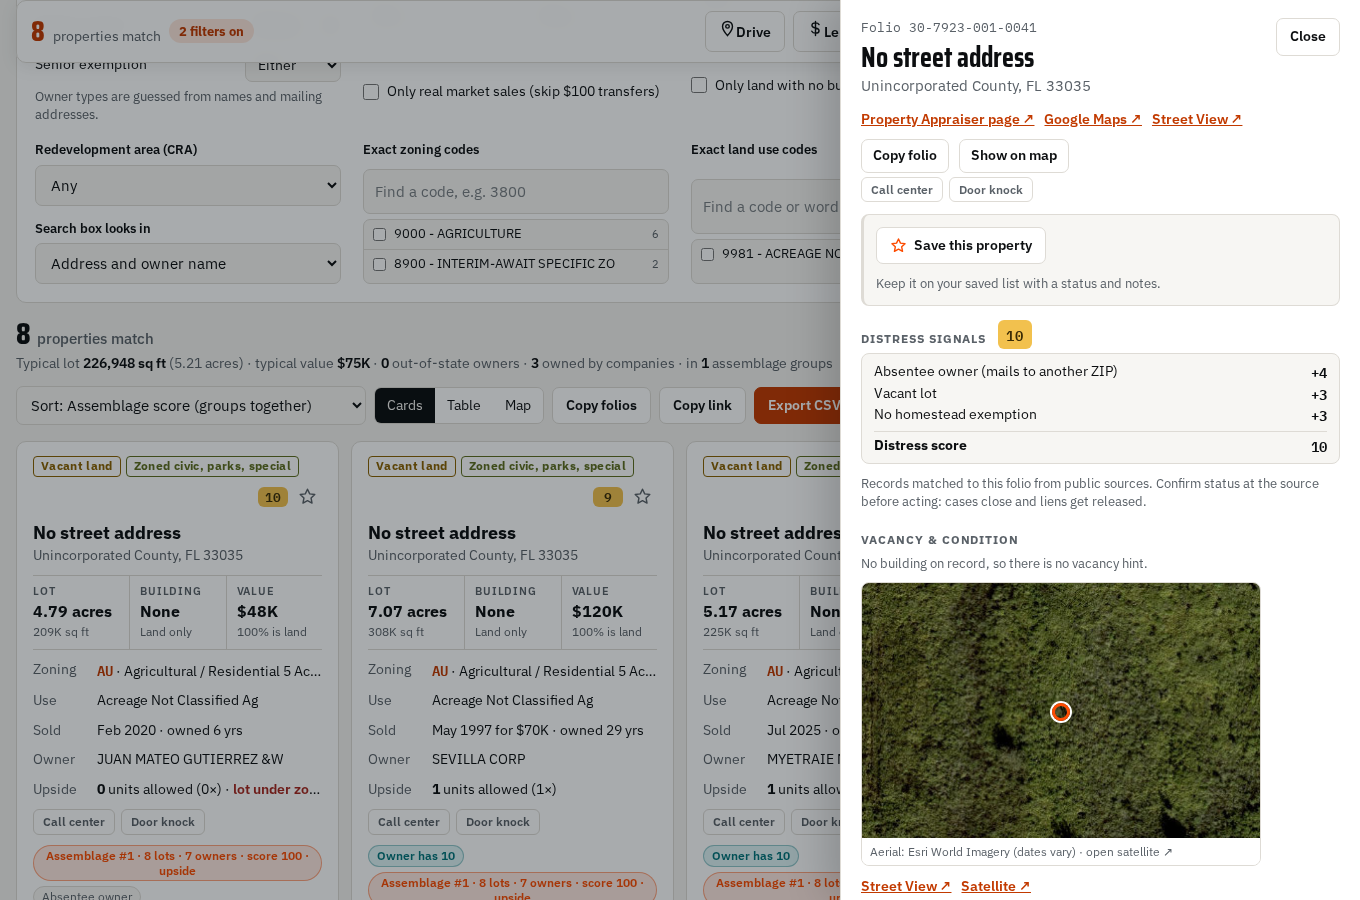
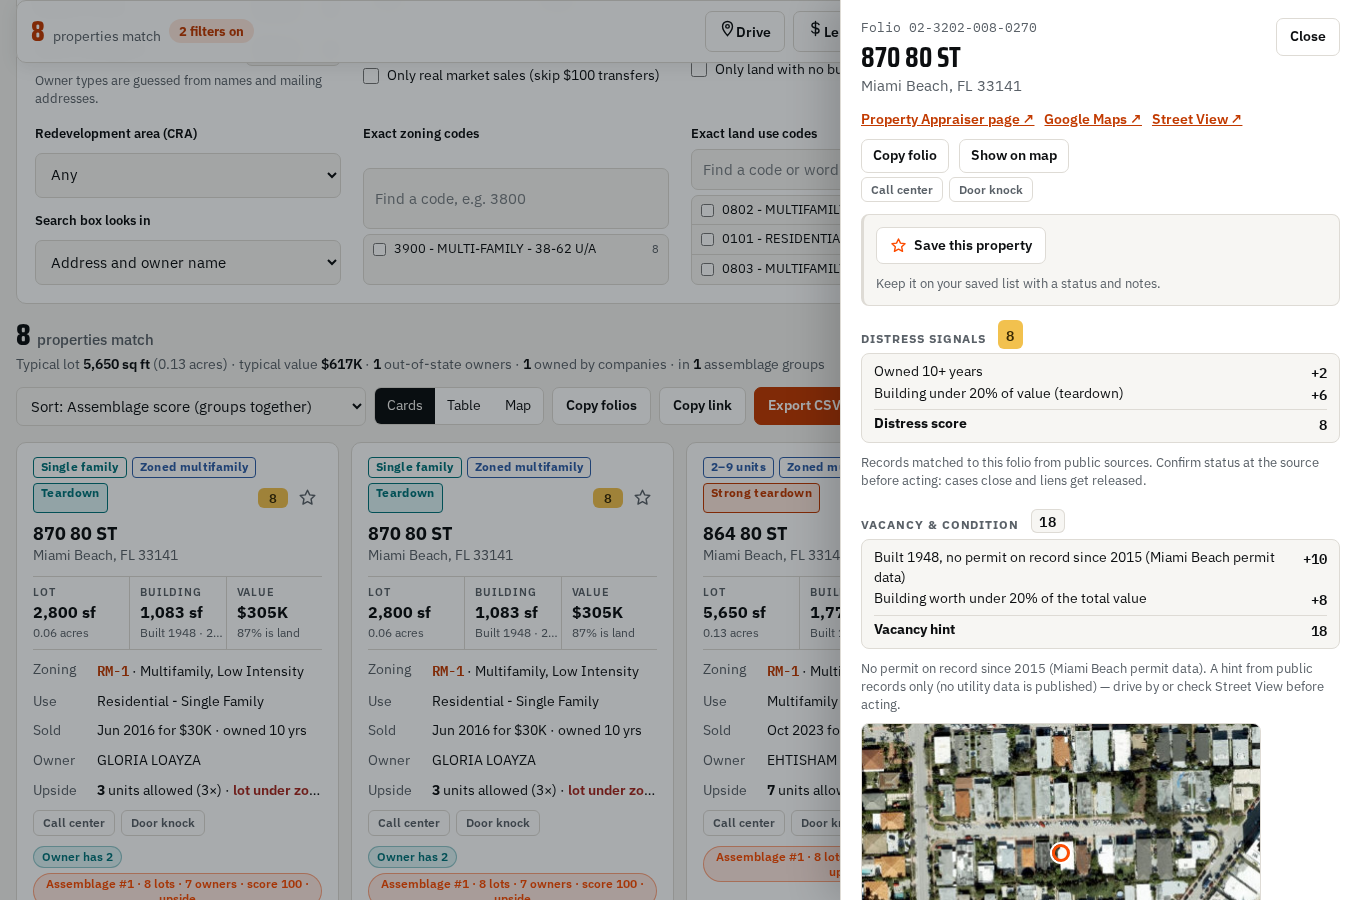
e2e_asm: infill ranking checks

diff --git a/tests/e2e_asm.py b/tests/e2e_asm.py
@@ -30,7 +30,10 @@ with sync_playwright() as pw:
     ok(any('asm.json.gz' in u for u in reqs) and not any('asm-polys' in u for u in reqs), 'asm.json.gz loaded, outlines still not loaded')
     src = pg.inner_text('#asmSrc'); ok(re.search(r'[\d,]+ groups \([\d,]+ parcels\)', src) is not None, 'source line: ' + src)
     ok('asm=1' in pg.evaluate('location.hash'), 'hash has asm=1')
-    top = pg.evaluate("""()=>ASM.groups.slice(0,200).map(g=>[g.zone,g.lot,g.score,g.units,g.partsB,g.unlock])""")
+    import urllib.request, gzip as _gz, json as _js
+    _raw = urllib.request.urlopen(URL.split('#')[0].split('?')[0] + 'data/asm.json.gz', timeout=120).read()
+    _o = _js.loads(_gz.decompress(_raw) if _raw[:2] == b'\x1f\x8b' else _raw)
+    top = [[_o['zones'][r[5]], r[6], r[1], None if r[7] < 0 else r[7], None if r[8] < 0 else r[8], r[12] == 1] for r in _o['g'][:200]]
     ok(not any(z.upper() in ('AU', 'GU', 'AG') for z, *_ in top), 'no agricultural zoning in the top 200 groups')
     ok(max(t[1] for t in top) <= 2 * 43560, f'top 200 groups are all <= 2 acres combined (max {max(t[1] for t in top) / 43560:.2f} ac)')
     ok(all(t[5] or (t[3] or 0) > (t[4] or 0) for t in top[:50]), 'top 50 groups clear the zone minimum or add units')
